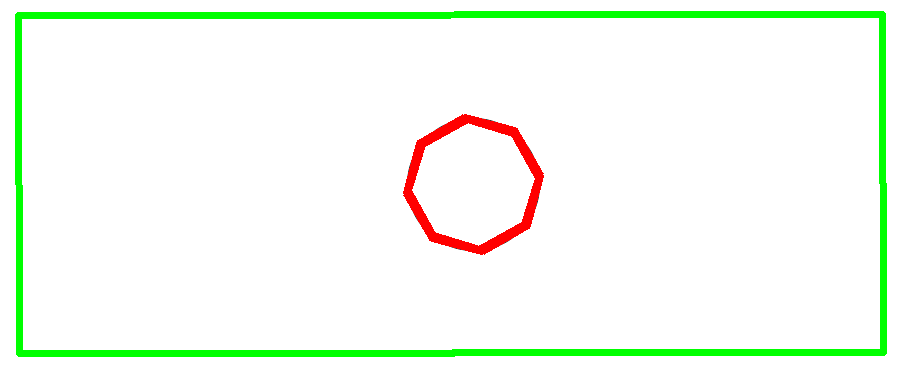
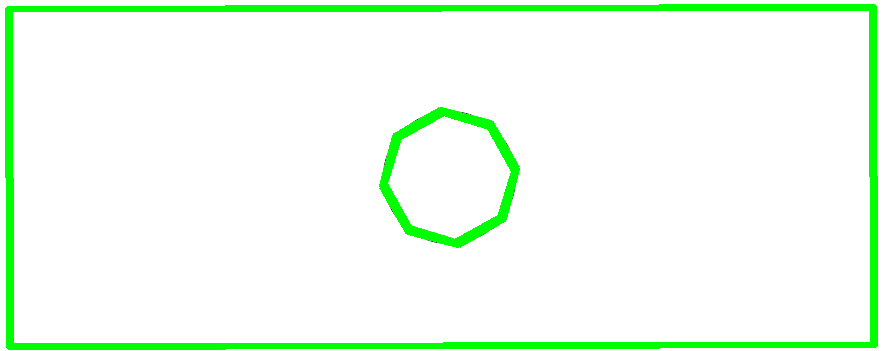
.

Changed region(s): [[0.0, 0.0, 1.0, 0.9972], [0.4276, 0.2849, 0.6109, 0.7123]]

diff --git a/FindFigure.py b/FindFigure.py
@@ -4,7 +4,7 @@ import numpy as np
 import FindFunc
 
 #Read source img
-img = cv2.imread('IMG\Test.png')
+img = cv2.imread('IMG\TestNew.png')
 gr = cv2.cvtColor(img, cv2.COLOR_BGR2GRAY)
 gr = cv2.GaussianBlur(gr, (3, 3), 0)
 edge = cv2.Canny(gr, 10, 250)
@@ -12,7 +12,19 @@ kernel = cv2.getStructuringElement(cv2.MORPH_RECT, (7, 7))
 closed = cv2.morphologyEx(edge, cv2.MORPH_CLOSE, kernel)
 cnts = cv2.findContours(closed.copy(), cv2.RETR_TREE, cv2.CHAIN_APPROX_SIMPLE)
 cnts = imutils.grab_contours(cnts)
+for c in cnts:
+    # approx contour
+    peri = cv2.arcLength(c, True)
+    approx = cv2.approxPolyDP(c, 0.02 * peri, True)
 
+    if len(approx) == 4:
+        cv2.drawContours(img, [approx], -1, (0, 255, 0), 4)
+    # если 3 контура, значит это треугольник
+    if len(approx) == 3:
+        cv2.drawContours(img, [approx], -1, (0, 255, 0), 4)
+    # если больше 5 значит это круг
+   # if len(approx) > 5:
+     #   cv2.drawContours(img, [approx], -1, (0, 255, 0), 5)
 imgGray = cv2.cvtColor(img, cv2.COLOR_BGR2GRAY)
 new_img = FindFunc.FindElement(imgGray, img)
 cv2.imshow('res.png', new_img)

diff --git a/FindFunc.py b/FindFunc.py
@@ -4,7 +4,7 @@ import imutils
 
 def FindElement(imgGray, img):
     # Dict of templates
-    dict_ = {1: 'IMG\Test1.png', 2: 'IMG\Test2.png', 3: 'IMG\Test3.png'}
+    dict_ = {1: 'IMG\Test1.png', 2: 'IMG\Test33.png', 3: 'IMG\Test3.png'}
     # cycle for reading each template from dict
     for i in dict_.values():
         template = cv2.imread(i, 0)
@@ -18,4 +18,5 @@ def FindElement(imgGray, img):
         loc = np.where(res >= threshold)
         for pt in zip(*loc[::-1]):
             cv2.rectangle(img, pt, (pt[0] + w, pt[1] + h), (0, 0, 255), 2)
+            cv2.putText(img,pt.__str__()+' '+ (pt[0]+w).__str__()+' '+(pt[1]+h).__str__(), pt, cv2.FONT_HERSHEY_SIMPLEX, 1.0, (0, 0, 0), lineType=cv2.LINE_AA)
     return img
